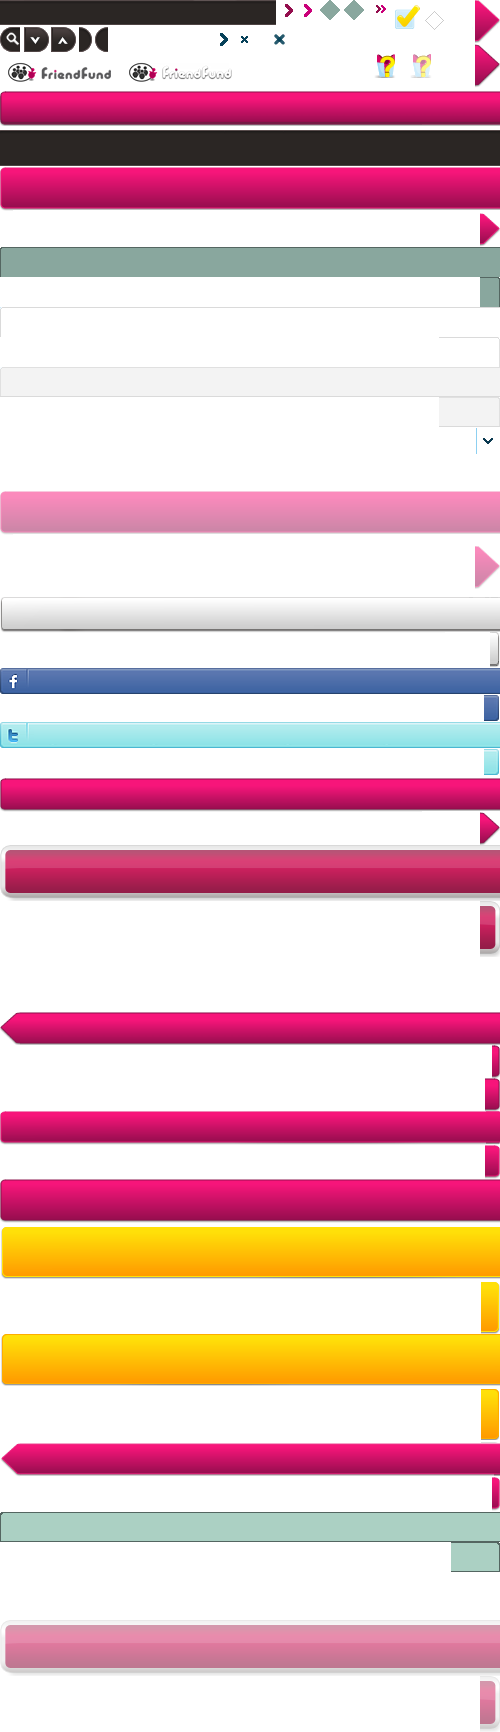
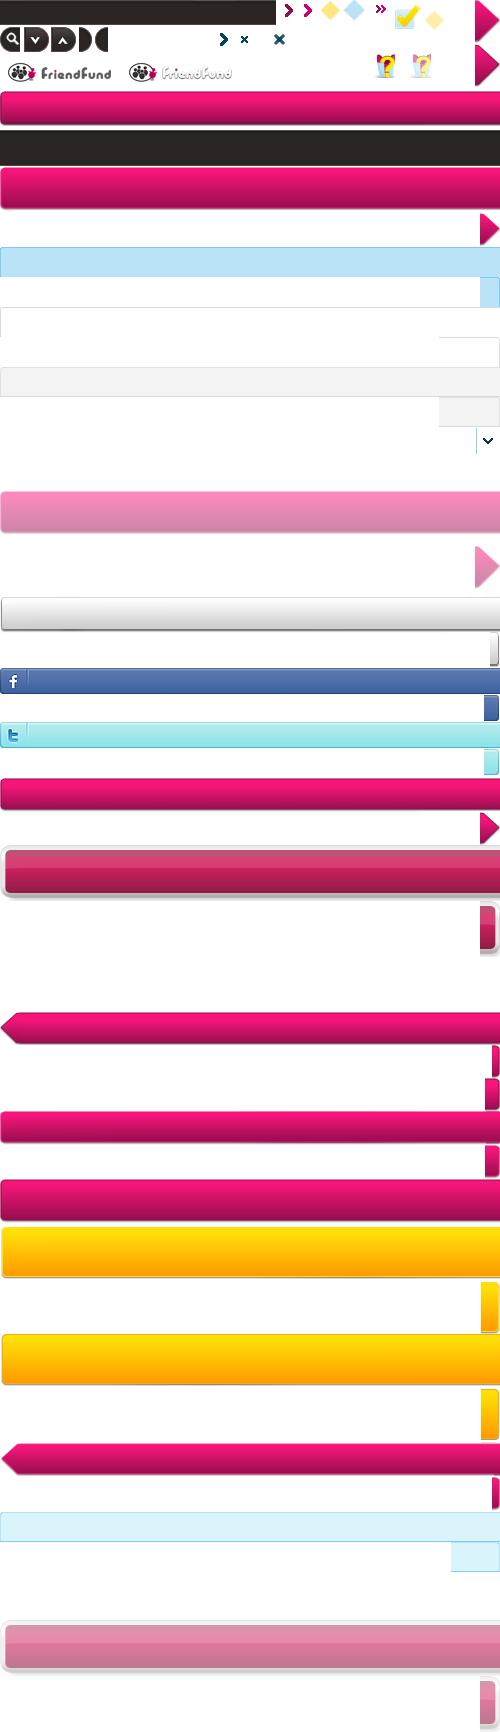
updated configs

diff --git a/friendfund/partners/buyagift/templates/customization/custom.css b/friendfund/partners/buyagift/templates/customization/custom.css
@@ -1,6 +1,6 @@
-.underlined1 {border-bottom:1px solid #E8EEEC;}
-.underlined2 {border-bottom:2px solid #89A79E;}
-.underlined5 {border-bottom:5px solid #89A79E;}
+.underlined1 {border-bottom:1px solid #ECF8Fd;}
+.underlined2 {border-bottom:2px solid #BBE3F7;}
+.underlined5 {border-bottom:5px solid #BBE3F7;}
 .emphasis{color: #b75182;}
 
 .inside{color: #C5C5C5;font-size: 28px;}
@@ -10,39 +10,40 @@
 
 a.red_labeled_container {margin: 23px 26px 23px 60px}
 
-#pool_admin_pic{background-color: #b0c8c0}
-#pool_admin_slogan{background-color: #89A79E}
-.pcont_body .contributor{background-color: #89A79E}
+#pool_admin_pic{background-color: #BBE3F7}
+#pool_admin_slogan{background-color: #BBE3F7}
+.pcont_body .contributor{background-color: #BBE3F7}
 
 
-div#fundstream_ra{background-color:#b0c8c0}
-div#mypools.recentactivity div.rabody{background-color:#b0c8c0}
-div#lowerbody_container div.comment div.commentText {background-color: #89A79E}
-div#lowerbody_container textarea.comment_text_input {background-color:#C2D5CF;border:1px solid #89A79E}
-.ctrbrText{background-color:#89A79E}
+div#fundstream_ra{background-color:#BBE3F7}
+div#mypools.recentactivity div.rabody{background-color:#BBE3F7}
+div#lowerbody_container div.comment div.commentText {background-color: #BBE3F7}
+.ctrbrText{background-color:#BBE3F7}
 
 
 
 
-body {background-color: #333333;color:#333;}
-.logoHeader {float:left;margin: 15px 0 0px 17px;}
+body {background-color: transparent;color:#333;}
+.logoHeader {float:left;margin: 15px;}
 
 a.login_loginlink {color: #333;}
 
-div.frontpagebutton {background-color:#ccd9d5;width:300px;padding: 1px;}
-div.frontpagebutton.first {width:100%;background-color:white;padding:0;}
+div.frontpagebutton {background-color:#bbe3f7;width:300px;padding: 1px 1px 0px 0px;}
+div.frontpagebutton.first {background-color: #ECF8Fd;border: 1px solid #D0EDFB;padding:0;}
 div.frontpagebutton.second {margin: 1px 1px 1px 0px;}
 div.frontpagebutton.last {width:250px;}
-div.frontpagebuttonhover {background-color: #CCD9D5;}
-div.frontpagebutton div.extender {left: -1px;border-left: 1px solid #B7CAC5;border-right: 1px solid #B7CAC5;background-color:#E8EEEC;z-index:5;}
+div.frontpagebuttonhover {background-color: #c3e9fc;}
+div.frontpagebutton div.extender {left: 0px;background-color:#ECF8Fd;z-index:5;border-right: 1px solid #D0EDFB;}
 
-#pool_configurator div.front_panel_active{ background-color: #E8EEEC;border: 1px solid #B7CAC5;padding: 0px;}
+body.popup #pool_configurator div.hpbutton.gift img.button_content {border:1px solid #D0EDFB}
+
+#pool_configurator div.front_panel_active{ background-color: #ECF8Fd;border-top: 1px solid #D0EDFB;border-right: 1px solid #D0EDFB;padding: 0px;}
 #funders_panel{background-color:white !important;border:0px transparent solid !important;}
 
-#button_panel_container {float:left;display: None;width:100%;border: 1px solid #B7CAC5;background-color:#E8EEEC;clear: both;position: relative;margin:2px 0 0 -2px;}
+#button_panel_container {float:left;display: None;width:100%;border-top: 1px solid #D0EDFB;background-color:#ECF8Fd;clear: both;position: relative;}
 #button_panel {min-height:150px;position: relative;padding:10px 0 0 0;float:left;width:100%}
 
-div#occasion_button_bar {background-color:#89A79E;border-top:1px solid #546661;margin-top:-1px;}
+div#occasion_button_bar {background-color:#BBE3F7;border-top:1px solid #D0EDFB;margin-top:-1px;}
 div#occasion_button_bar select,
 div#occasion_button_bar input{width:300px !important;background-color:white;padding:3px;}
 .dijitTextBoxFocused .dijitInputContainer, .dijitTextBox {background-color: white !important;}
@@ -51,13 +52,13 @@ div#occasion_button_bar input{width:300px !important;background-color:white;padd
 .dijitTooltipContainer {left: 10px;}
 .claro .dijitTextBox .dijitInputField {background-color:white;width:100px;padding:3px;}
 .occasionLabel{font-weight:bold;}
-.horizontal_tiler {padding:20px 30px;border-bottom: 1px solid #E8EEEC;}
+.horizontal_tiler {padding:20px 30px;border-bottom: 1px solid #ECF8Fd;}
 .dateopener {cursor:pointer}
 #occasion_date_input_bar {clear:both;padding:30px;}
 
 
 
-#receiver_selector_container {border-top: 1px solid #546661;background-color:#89A79E;}
+#receiver_selector_container {border-top: 1px solid #81CBEF;background-color:#BBE3F7;}
 
 div#siteinfo {float:left;float:left;}
 div#siteinfo {border-top:2px solid #D3EDFA;background-color:#333;}
@@ -71,19 +72,22 @@ div#siteinfo .siteinfo_copyright.light .poweredByFriendfund {background-position
 
 body.base div#siteinfo div.siteinfo1 div.siteinfo2 {width:980px}
 
-div.window_container div.window {border:15px solid #b0c8c0;}
-.profilePictureContainer .profile-picture {background-color:#b0c8c0;}
-.profile-picture{background-color:#b0c8c0;}
-.payement-container #termsofservice {border:1px solid #b0c8c0;}
+div.window_container div.window {border:15px solid #BBE3F7;}
+.profilePictureContainer .profile-picture {background-color:#BBE3F7;}
+.profile-picture{background-color:#BBE3F7;}
+.payement-container #termsofservice {border:1px solid #BBE3F7;}
 #pool_pool_panel .pool_content  .picture_area_outer{background-color:white;border-bottom:1px solid #aaa;border-left:1px solid #aaa;border-right:1px solid #aaa;}
 
-#outercontainer {padding: 0px 0px 5px 0px !important;}
+#outercontainer {
+	background:#FEF9EB !important;
+	padding: 0px 0px 5px 0px !important;
+}
 
-#body_container .innerbody {background-color:  #89A79E;padding-top: 1px;}
+#body_container .innerbody {background-color:  #BBE3F7;padding-top: 1px;}
 .logoBanner {float:left;margin:24px 0 0 29px;}
 #timeline_bar div.timeline_progressbar_bg .tooltip {background-color: white;}
 
-.rcptThankYouNotice {background-color: #89A79E;}
-.invite_secret .tooltip {background-color: #89A79E}
-#invitescontainer {background-color: #89A79E; border-top: 1px solid #333}
-#birthdayselector {background-color: #89A79E;}
+.rcptThankYouNotice {background-color: #BBE3F7;}
+.invite_secret .tooltip {background-color: #BBE3F7}
+#invitescontainer {background-color: #BBE3F7; border-top: 1px solid #333}
+#birthdayselector {background-color: #BBE3F7;}

diff --git a/friendfund/partners/buyagift/public/sample/sample.html b/friendfund/partners/buyagift/public/sample/sample.html
@@ -71,6 +71,18 @@ function ratingsDisplayed(totalReviewsCount, avgRating, ratingsOnlyReviewCount, 
 
 	<meta name="rating" content="Safe For Kids">
 
+	<meta name="og:type" content="product"/>
+	<meta name="og:name" content="2 for 1 Indulgent Pamper Day at Spirit Health Clubs"/>
+	<meta name="og:price" content="4495"/>
+	<meta name="og:shipping_handling" content="650"/>
+	<meta name="og:currency" content="GBP"/>
+	<meta name="og:image" content= "http://www.buyagift.co.uk/Common/Client/Images/Product/Large/en-GB/massagesmile300x208.jpg"/>
+	<meta name="og:description" content="Indulge and unwind with this wonderful pamper day for two. You'll be able to spend a day of complete relaxation at a Spirit Health Club of your choice, where you can make the most of fantastic facilities such as a sauna, gym, swimming pool and steam room. During your pampering experience you will each receive two invigorating beauty treatments of your choice. Take your pick from an exquisite treatment menu - including facials, massages, body scrubs and manicures."/>
+
+	
+	
+	
+	
 	<title>
 
 	2 for 1 Indulgent Pamper Day at Spirit Health Clubs from Buyagift 
@@ -1308,7 +1320,6 @@ var initialToValue;
 
 							</div>
 							
-							<div id="friendfund_fund_button"></div>
 
 						</td>
 
@@ -1807,14 +1818,14 @@ guaranteed next working day. Look out for the options on the basket page (and if
 
                       		</div>
 
-                      		<br />
+                      		
 
                       		
 
 							<!-- end of temp voucher -->
 
 							
-
+							<div id="friendfund_fund_button"></div>
 		                    <table border="0" cellspacing="0" cellpadding="0" class="crosssell">
 
 			                    <tr>
@@ -2530,7 +2541,17 @@ return returnval
 </script>
 
 <!-- END COREMETRICS Support 2-->
-
+<script type="text/javascript">
+var friendfundOptions = {/* required */key: "buyagift",host: "buyagift.friendfund.de", lang: 'en', showButton: true,button_id:'friendfund_fund_button',
+/* optional */protocol :"https:"== document.location.protocol ? "https://" : "http://"};
+function _loadFriendFundButton() {var s = document.createElement('script');s.setAttribute('type',
+			'text/javascript');s.setAttribute('src', ("https:" ==
+			document.location.protocol ? "https://" : "http://") +
+			"dev.friendfund.de/static/js/tab.js?20110112");document.getElementsByTagName('head')[0].appendChild(s);}_loadSuper
+			= window.onload;window.onload = (typeof window.onload != 'function') ?
+			_loadFriendFundButton : function() { _loadSuper();
+			_loadFriendFundButton(); };
+</script>
 </body>
 
 </html>

diff --git a/friendfund/public/css/site.css b/friendfund/public/css/site.css
@@ -90,7 +90,7 @@ div.frontpagebutton {
 	margin: 1px;
 }
 div.frontpagebutton.first {margin: 1px 1px 1px 0px;}
-body.popup div.frontpagebutton.first {margin:0;}
+body.popup div.frontpagebutton.first {margin:0;width:100%;}
 div.frontpagebutton.last {margin: 1px 0px 1px 1px;}
 
 #pool_configurator {float:left}
@@ -137,17 +137,18 @@ div.frontpagebutton.funders {
 .hpbutton .button_label {color: #B70158; font-family: "Trebuchet MS"; font-weight: bold; font-style: italic; font-size: 28px;line-height:52px;position:relative}
 .hpbutton .button_label_q {font-style:normal;font-size:52px;top:10px;position:relative}
 
-body.popup #pool_configurator {padding: 10px 15px 15px;}
-body.popup #pool_configurator div.hpbutton.gift {padding:0px 0px 10px;}
-body.popup #pool_configurator div.hpbutton.gift div.label { margin:0px 10px;float:right;width: 700px;}
-body.popup #pool_configurator div.hpbutton.gift img.button_content {margin:0 auto;max-width:178px;height:111px;padding:0;}
-body.popup #funders_panel_tooltip {top: -27px;}
+body.popup #pool_configurator {padding: 0px 15px 15px;}
 body.popup #pool_configurator .hpbutton {float:left;width:100%;}
+body.popup #pool_configurator div.hpbutton.gift {margin:10px;width:auto;}
+body.popup #pool_configurator div.hpbutton.gift div.label { margin:0px 10px;float:right;width: 700px;}
+body.popup #pool_configurator div.hpbutton.gift img.button_content {margin:0 auto;max-width:160px;height:111px;padding:0;}
+body.popup #funders_panel_tooltip {top: -27px;}
 body.popup #pool_configurator .hpbutton div.button_content {position: relative;width:178px;margin: 0px auto;}
 body.popup #pool_configurator .hpbutton img.loaders_animation {position:absolute;top:30px;left:40px;}
 body.popup #pool_configurator .hpbutton img.button_content {	height:68px;width:auto;max-width:98px;margin:0 auto;padding-top:5px;}
 body.popup #pool_configurator .hpbutton div.label {margin:10px 10px 10px 0px;}
 body.popup #pool_configurator .hpbutton a.content {float:left;margin:5px 10px;}
+body.popup #pool_configurator .hpbutton.gift a.content {margin:0px !important;}
 
 #pool_configurator div.hpbutton a.button.funders {margin: 24px;}
 #pool_configurator div.hpbutton a.content {
@@ -198,8 +199,6 @@ body.popup .hpbutton a.content.withbg {height:74px;width:96px}
 	font-weight:normal;
 	max-height:90px;overflow:hidden;
 }
-
-body.popup #pool_configurator div.hpbutton div.sub_label {max-height: 43px !important;}
 
 #button_panel h2{
 	margin:0;

diff --git a/friendfund/public/js/tab.js b/friendfund/public/js/tab.js
@@ -468,8 +468,9 @@ FriendFund.Popin = {
 FriendFund.Button = {
 	button_id: "friendfund_fund_button",
 	button_text: "Friendfund this",
-	css_template: "#${button_id} {margin: 10px;width: auto} #${button_id}\
-					.friendfundButton{pointer:cursor;margin:10px auto;color:white;width:122px;height:196px;\
+	css_template: "#${button_id} {margin: 10px 0;width: auto} \
+					#${button_id}:hover {cursor:pointer}\
+					#${button_id} .friendfundButton{pointer:cursor;margin:10px auto;color:white;width:192px;height:71px;\
 					background:url(${protocol}${host}/static/custom_imgs/button_logo.png) no-repeat 0 0 transparent;display:block}",
 	fixed_css_template: "#${button_id} {position:fixed;${alignment}:-150px;top:${top};width:196px;height:122px;} \
 					#${button_id}:hover {${alignment}:0px;cursor:pointer} \

diff --git a/friendfund/templates_partner/product/button.html b/friendfund/templates_partner/product/button.html
@@ -2,9 +2,9 @@
 <%
 	product = getattr(getattr(c, 'pool', None), 'product', None)
 %>
-<div id="button_product" class="hpbutton gift underlined2 floaterLeft">
+<div id="button_product" class="hpbutton gift floaterLeft">
 	%if product:
-		<div style="text-align:center;width:178px;" class="floaterLeft"><img class="button_content" src="${getattr(product, 'picture_large')}"/></div>
+		<div style="text-align:center;width:160px;" class="floaterLeft"><img class="button_content" src="${getattr(product, 'picture_large')}"/></div>
 		%if c.product_list:
 			<div class="label minified">
 				<div class="minified_title">

diff --git a/friendfund/templates_partner/index.html b/friendfund/templates_partner/index.html
@@ -27,7 +27,7 @@
 	<h4 class="inside" style="margin: 5px 10px 0;">
 		${_("MERCHANT_POPUP_SLOGAN_Share the costs with your friends!")}
 	</h4>
-	<div class="insider underlined5" style="margin: 0pt 15px;">${_("MERCHANT_POPUP_SubSlogan_Share the costs with your friends by organising a group gift pool.")}</div>
+	<div class="insider" style="margin: 0px 15px;">${_("MERCHANT_POPUP_SubSlogan_Share the costs with your friends by organising a group gift pool.")}</div>
 	</%def>
 <%def name="bodyclass()">popup</%def>
 <%def name="render_account_panel()"></%def>

diff --git a/friendfund/partners/diariobebe_com/templates/customization/custom.css b/friendfund/partners/diariobebe_com/templates/customization/custom.css
@@ -29,7 +29,7 @@ body {background-color: #333333;color:#333;}
 a.login_loginlink {color: #333;}
 
 div.frontpagebutton {background-color:#bbe3f7;width:300px;padding: 1px;}
-div.frontpagebutton.first {width:100%;background-color:white;padding:0;}
+div.frontpagebutton.first {background-color:white;padding:0;}
 div.frontpagebutton.second {margin: 1px 1px 1px 0px;}
 div.frontpagebutton.last {width:250px;}
 div.frontpagebuttonhover {background-color: #c3e9fc;}

diff --git a/friendfund/partners/great_american_days/templates/customization/custom.css b/friendfund/partners/great_american_days/templates/customization/custom.css
@@ -30,7 +30,7 @@ body {background-color: #333333;color:#333;}
 a.login_loginlink {color: #333;}
 
 div.frontpagebutton {background-color:#ccd9d5;width:300px;padding: 1px;}
-div.frontpagebutton.first {width:100%;background-color:white;padding:0;}
+div.frontpagebutton.first {background-color:white;padding:0;}
 div.frontpagebutton.second {margin: 1px 1px 1px 0px;}
 div.frontpagebutton.last {width:250px;}
 div.frontpagebuttonhover {background-color: #CCD9D5;}
